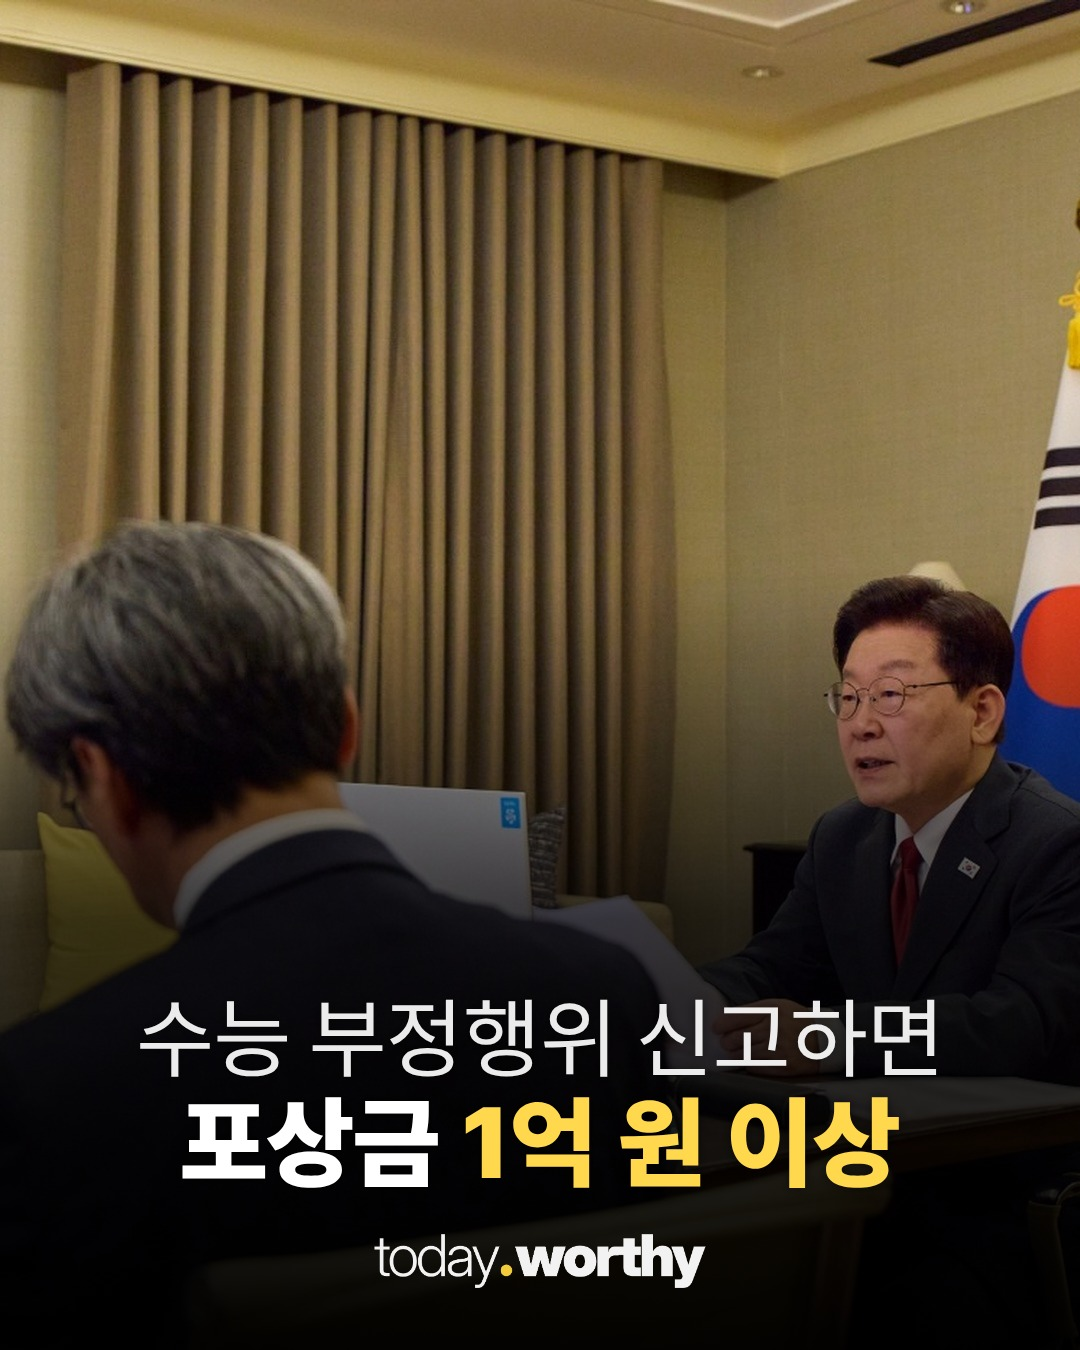
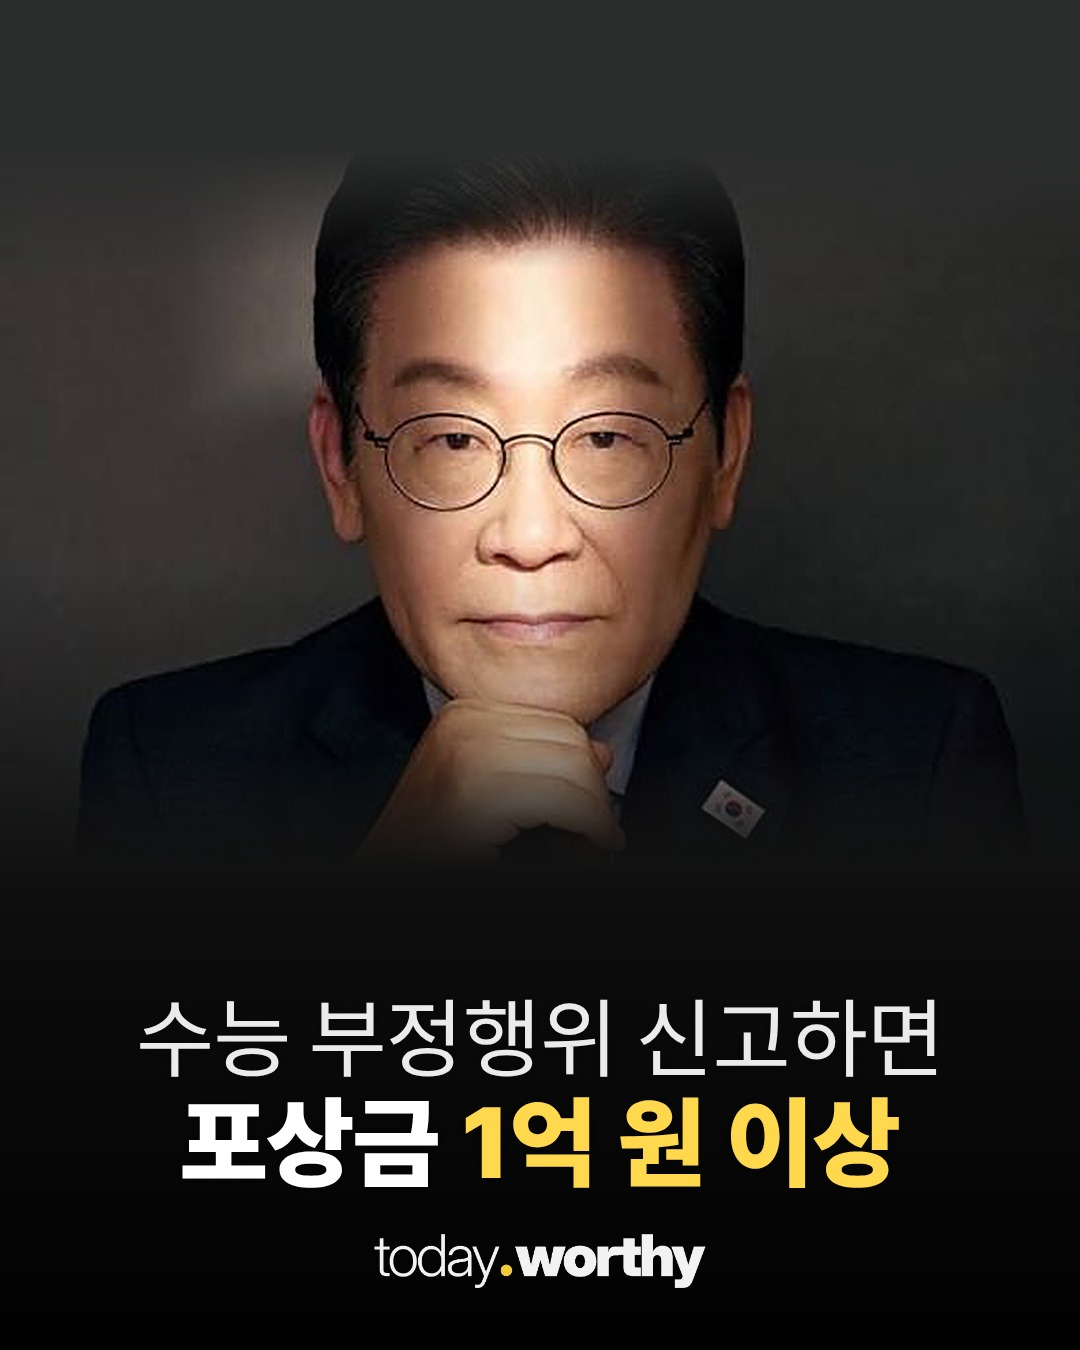
ljm 표지: 사용자 제공 사진
Claude-Session: https://claude.ai/code/session_01FGsw5QnWxFUsnopcB1Czie

diff --git a/media/20261117-ljm/build_card.py b/media/20261117-ljm/build_card.py
@@ -30,6 +30,14 @@ for ln in ['"공연히 요행을 노리다가 \'인생 망치지 마시고\',', 
     rich(d, P, y, ln, F("Bold" if False else "SemiBold", 34)); y += 50
 d.text((P, y + 14), "X 게시물 내용을 옮겨 구성 · 포상금은 '도입 검토 지시' 단계", font=F("Medium", 24), fill=MU)
 logo(im); im.save(Path(__file__).parent / "cand" / "c02.jpg", quality=93); print("ok", y)
-# 표지 배경: 필리핀 현지 긴급대책 영상회의 사진(아시아투데이 기사)
-from PIL import ImageOps
-ImageOps.fit(Image.open(Path(__file__).parent / "cand" / "press10.jpg").convert("RGB"), (W, H), Image.LANCZOS, centering=(.72, .5)).save(Path(__file__).parent / "cand" / "cover_bg.jpg", quality=95)
+# 표지 배경(사용자 제공 사진, 547x365): 폭 1080에 맞춰 위쪽에 두고 아래는 사진 바탕색으로 이어 붙임(글자 자리)
+from PIL import ImageFilter
+ph = Image.open(Path(__file__).parent / "cand" / "user_photo.jpg").convert("RGB")
+ph = ph.resize((W, round(ph.height * W / ph.width)), Image.LANCZOS).filter(ImageFilter.UnsharpMask(2, 60, 2))
+col = ph.crop((0, ph.height - 20, 40, ph.height)).resize((1, 1)).getpixel((0, 0))
+bg = Image.new("RGB", (W, H), col); top = 150; bg.paste(ph, (0, top))
+g = Image.new("L", (W, 120)); g.putdata([int(255 * y / 119) for y in range(120) for _ in range(W)])
+bg.paste(Image.new("RGB", (W, 120), col), (0, top + ph.height - 120), g)
+g2 = Image.new("L", (W, 120)); g2.putdata([int(255 * (119 - y) / 119) for y in range(120) for _ in range(W)])
+bg.paste(Image.new("RGB", (W, 120), col), (0, top), g2)
+bg.save(Path(__file__).parent / "cand" / "cover_bg.jpg", quality=95)
